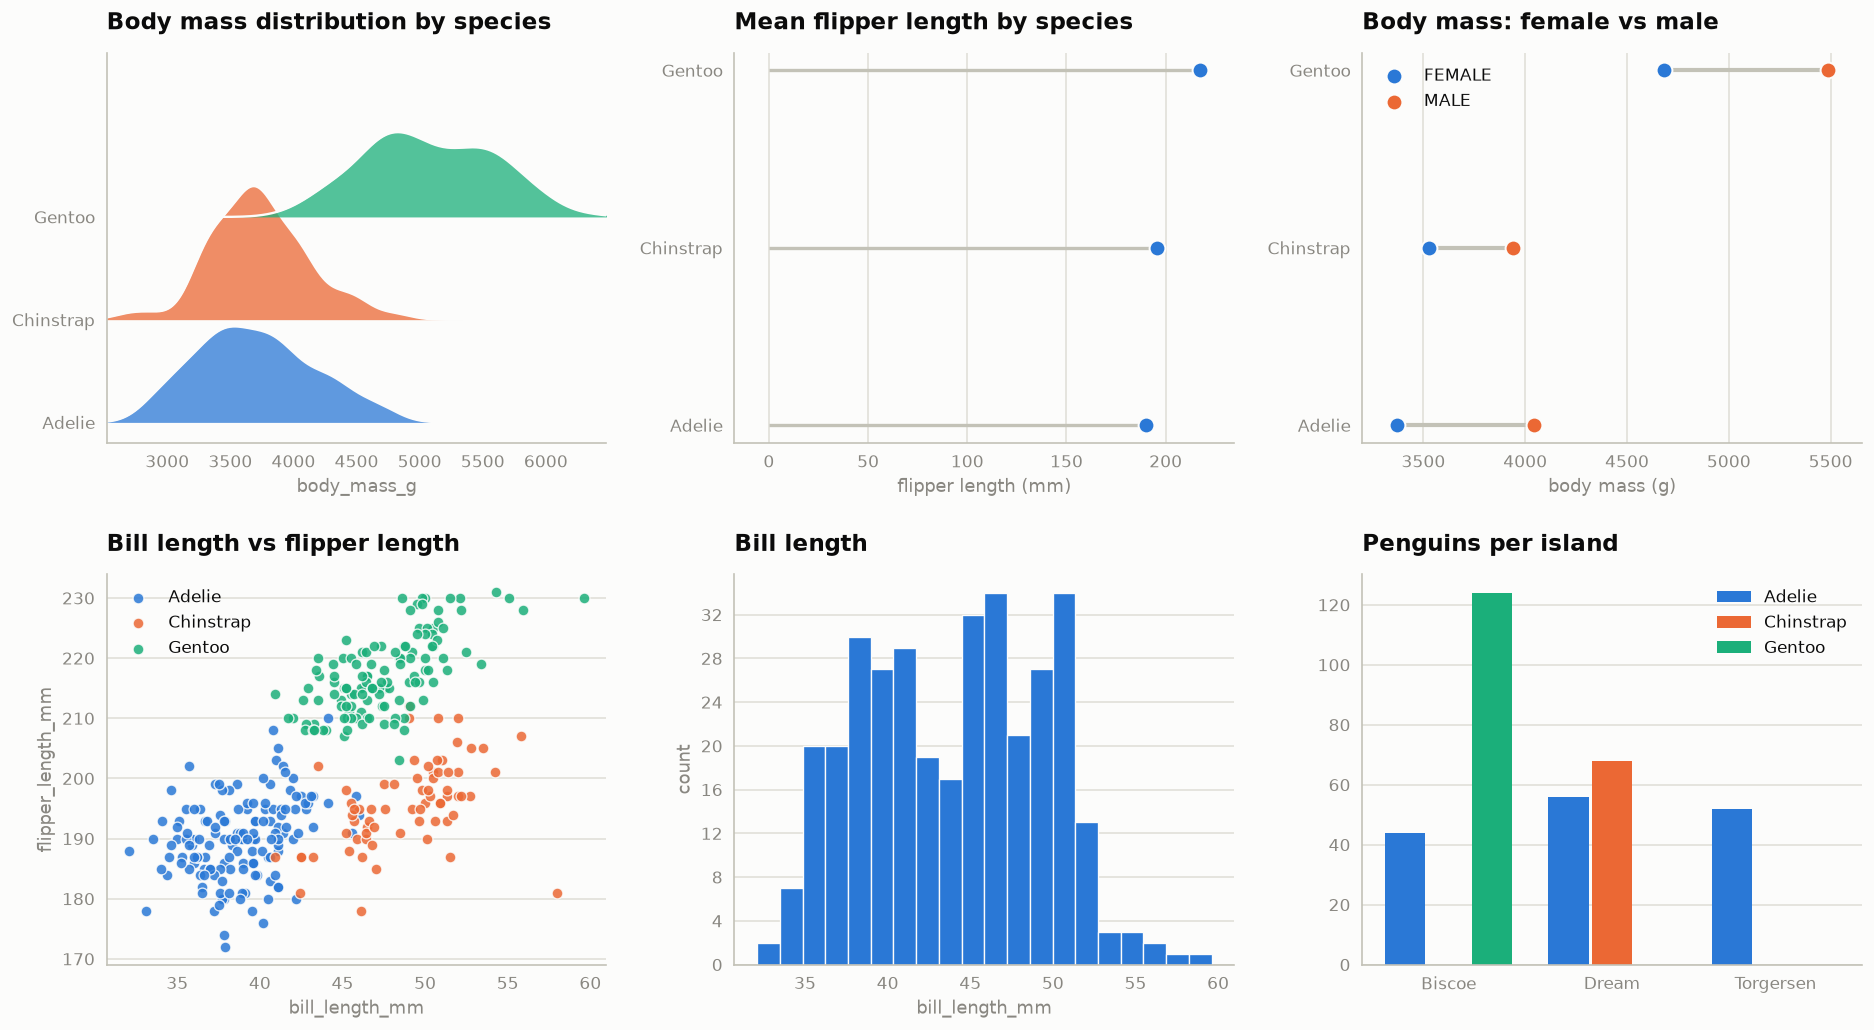
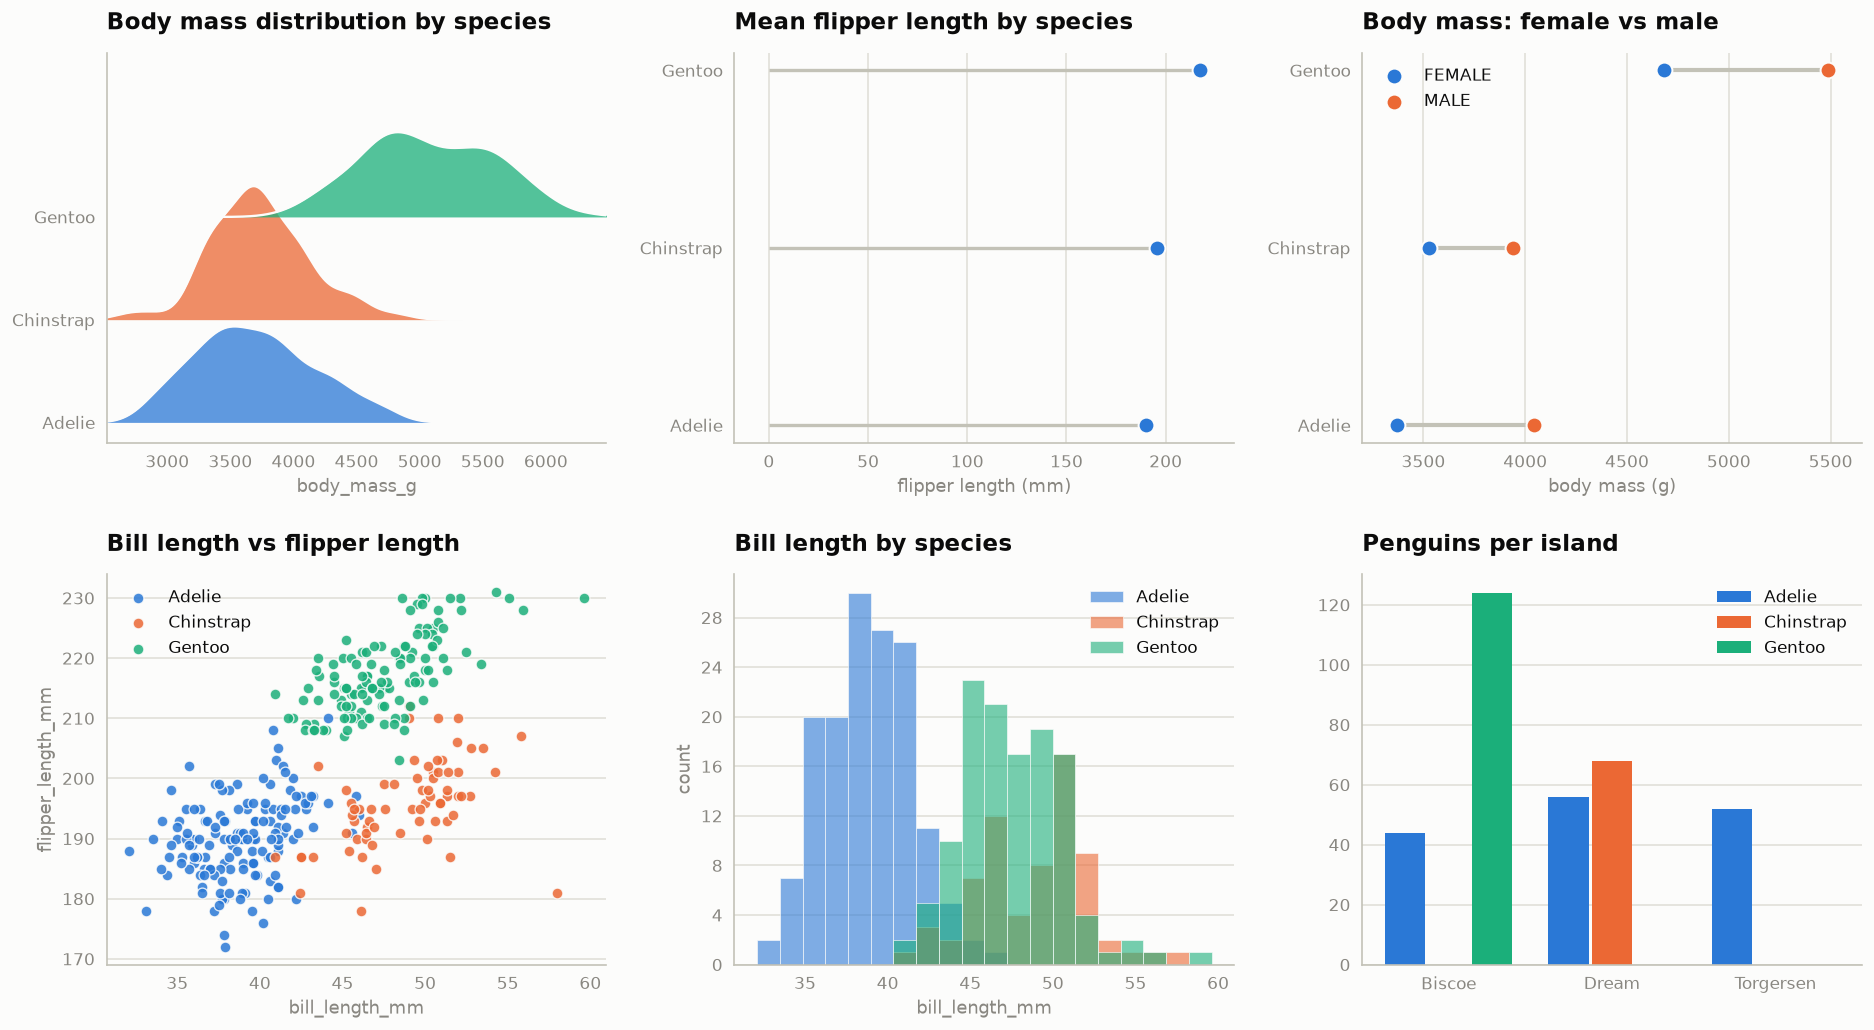
Add grouped histogram (hist by=) and use it for bill length by species
Teach hist() an optional `by=` argument: split a numeric column into one
translucent, overlaid histogram per group over a shared set of bin edges, with
an automatic legend, so the overlap between distributions is visible. The
single-series path is unchanged.

Use it in the penguins gallery for "Bill length by species" and document the
new argument in the README.

Claude-Session: https://claude.ai/code/session_011z8vY9Dm6rRXsFqaSvsfSk

Changed region(s): [[0.3714, 0.5592, 0.6499, 0.9631], [0.4642, 0.4971, 0.5261, 0.5592]]

diff --git a/src/simple_eda/core.py b/src/simple_eda/core.py
@@ -148,10 +148,25 @@ def scatter(data, x, y, color=None, title=None, ax=None):
     return _finish(ax, title, x, y, legend=bool(color))
 
 
-def hist(data, column=None, bins=20, title=None, xlabel=None, ax=None):
-    """Histogram of a single numeric column (or a Series)."""
-    values = data if isinstance(data, pd.Series) else data[column]
+def hist(data, column=None, by=None, bins=20, title=None, xlabel=None, ax=None):
+    """Histogram of a single numeric column (or a Series).
+
+    Pass ``by`` (a categorical column name) to split the distribution into one
+    translucent, overlaid histogram per group — sharing a single set of bin
+    edges — so the overlap between groups is visible. Requires a DataFrame and
+    a ``column`` when ``by`` is given.
+    """
     ax = _new_ax(ax)
+    if by is not None:
+        edges = np.histogram_bin_edges(data[column].dropna(), bins=bins)
+        for i, (key, grp) in enumerate(data.groupby(by)):
+            ax.hist(grp[column].dropna(), bins=edges, label=str(key),
+                    color=PALETTE[i % len(PALETTE)], alpha=0.6,
+                    edgecolor=_SURFACE, linewidth=0.6)
+        ax.yaxis.set_major_locator(mticker.MaxNLocator(integer=True))
+        return _finish(ax, title, xlabel or column, "count", legend=True)
+
+    values = data if isinstance(data, pd.Series) else data[column]
     ax.hist(values.dropna(), bins=bins, color=PALETTE[0],
             edgecolor=_SURFACE, linewidth=0.8)
     ax.yaxis.set_major_locator(mticker.MaxNLocator(integer=True))

diff --git a/examples/example.py b/examples/example.py
@@ -45,7 +45,8 @@ cv.dumbbell(mass_by_sex, title="Body mass: female vs male",
             xlabel="body mass (g)", ax=axes[0, 2])
 cv.scatter(penguins, "bill_length_mm", "flipper_length_mm", color="species",
            title="Bill length vs flipper length", ax=axes[1, 0])
-cv.hist(penguins["bill_length_mm"].dropna(), title="Bill length", ax=axes[1, 1])
+cv.hist(penguins, "bill_length_mm", by="species", title="Bill length by species",
+        ax=axes[1, 1])
 cv.bar(counts, title="Penguins per island", ax=axes[1, 2])
 
 fig.set_facecolor("#fcfcfb")

diff --git a/README.md b/README.md
@@ -68,7 +68,7 @@ subplot. A legend is added automatically only when there is more than one series
 | `bar(data, ...)` | Grouped vertical bars | DataFrame / Series |
 | `barh(data, ...)` | Ranked horizontal bars | DataFrame / Series |
 | `scatter(data, x, y, color=None, ...)` | Scatter, optionally split by a category | DataFrame |
-| `hist(data, column=None, bins=20, ...)` | Distribution of one numeric column | DataFrame / Series |
+| `hist(data, column=None, by=None, bins=20, ...)` | Distribution of a column; `by=` overlays one translucent histogram per group | DataFrame / Series |
 | `lollipop(data, sort=True, ...)` | Ranked lollipop — a lighter `barh` | DataFrame / Series |
 | `dumbbell(data, sort=True, ...)` | Two dots + connector per row (A vs B) | 2-column DataFrame |
 | `ridgeline(data, value, group, overlap=1.3, ...)` | Overlapping distribution per group | DataFrame |
